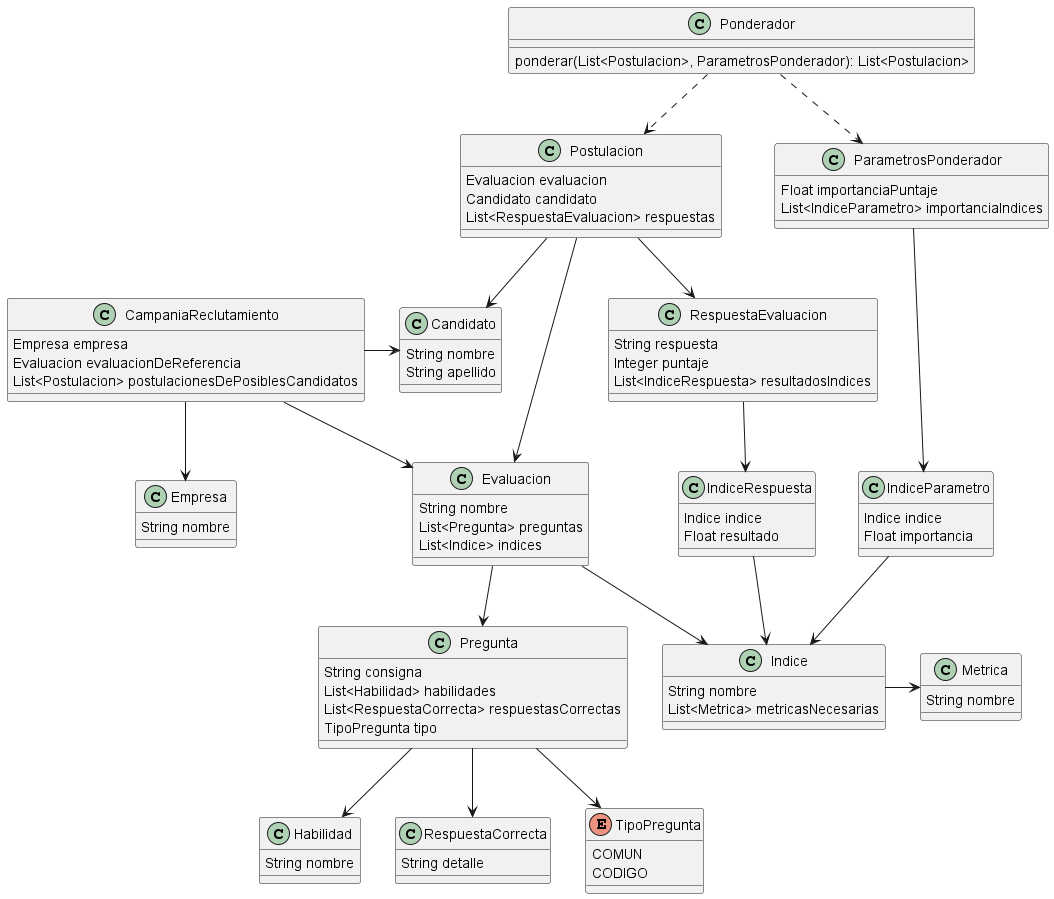
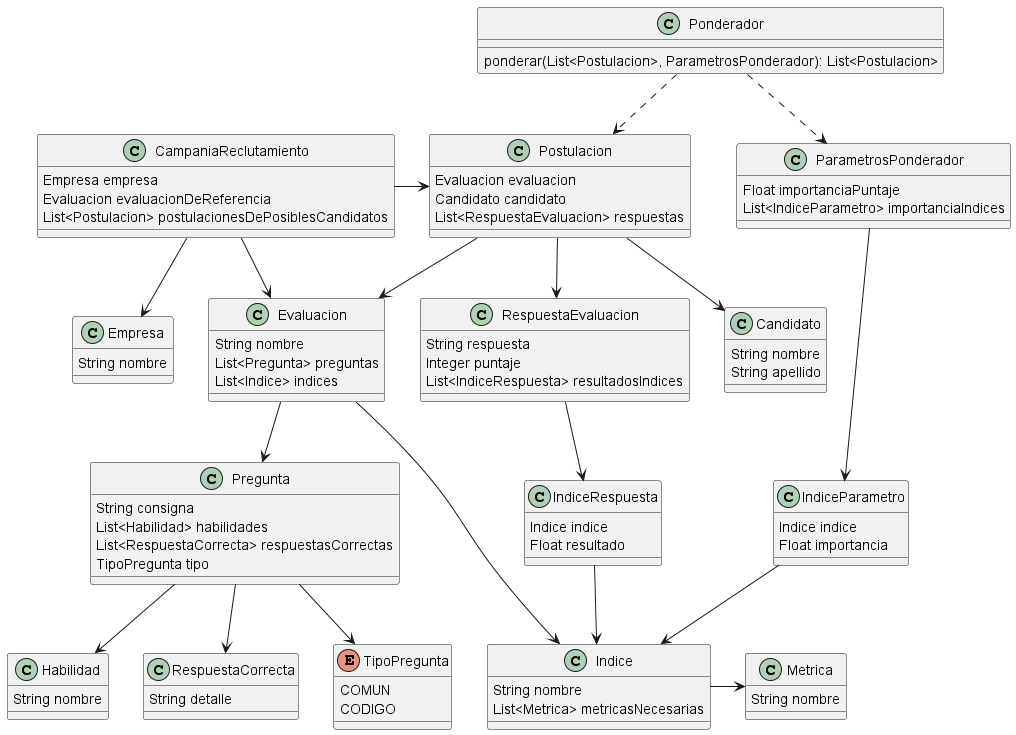
Completar hasta modelo de datos

diff --git a/[09-12-23] - RebaH/Respuestas.md b/[09-12-23] - RebaH/Respuestas.md
@@ -68,3 +68,16 @@ Se podría implementar utilizando:
 - Cliente liviano con el Front separado de la lógica de negocio
   - Si bien mantiene una carga reducida en el cliente como la otra alternativa, dicha carga resulta un poco más lenta debido a que se deben consultar los datos a la REST API que exponga nuestro componente Evaluador
   - Resulta mucho más sencillo de mantener que la otra alternativa, debido a que se mantuvo desacoplada la lógica visual y de negocio, por lo que podrían escalar de manera independiente. Y si a futuro se necesitara un cliente pesado, el cambio resultaría mucho más sencillo que con la otra alternativa
+
+# Persistencia
+### 1- Modelo de datos
+![Modelo de datos](img_3.png)
+
+### 2- Justificaciones
+
+- NO persisto ni ParametrosPonderador ni IndiceParametro debido a que son Value Object en mi dominio, sólo se utilizan para juntar parámetros
+- Genero una entidad intermedia entre Pregunta y Habilidad por consistencia, para poder mantener habilidades definidas
+- Por el mismo motivo que el anterior, rompo los ManyToMany entre Indice y Metrica, y el de Evaluacion e Indice
+- El principal impedance mismatch encontrado fue el de TipoPregunta en la entidad Pregunta, pero esto lo resuelvo almacenándolo como un VARCHAR debido a que es un enum
+- Podría considerar desnormalizar, por Performance, la entidad Postulacion, agregando el puntaje ponderado por la clase Ponderador de nuestro dominio.
+
